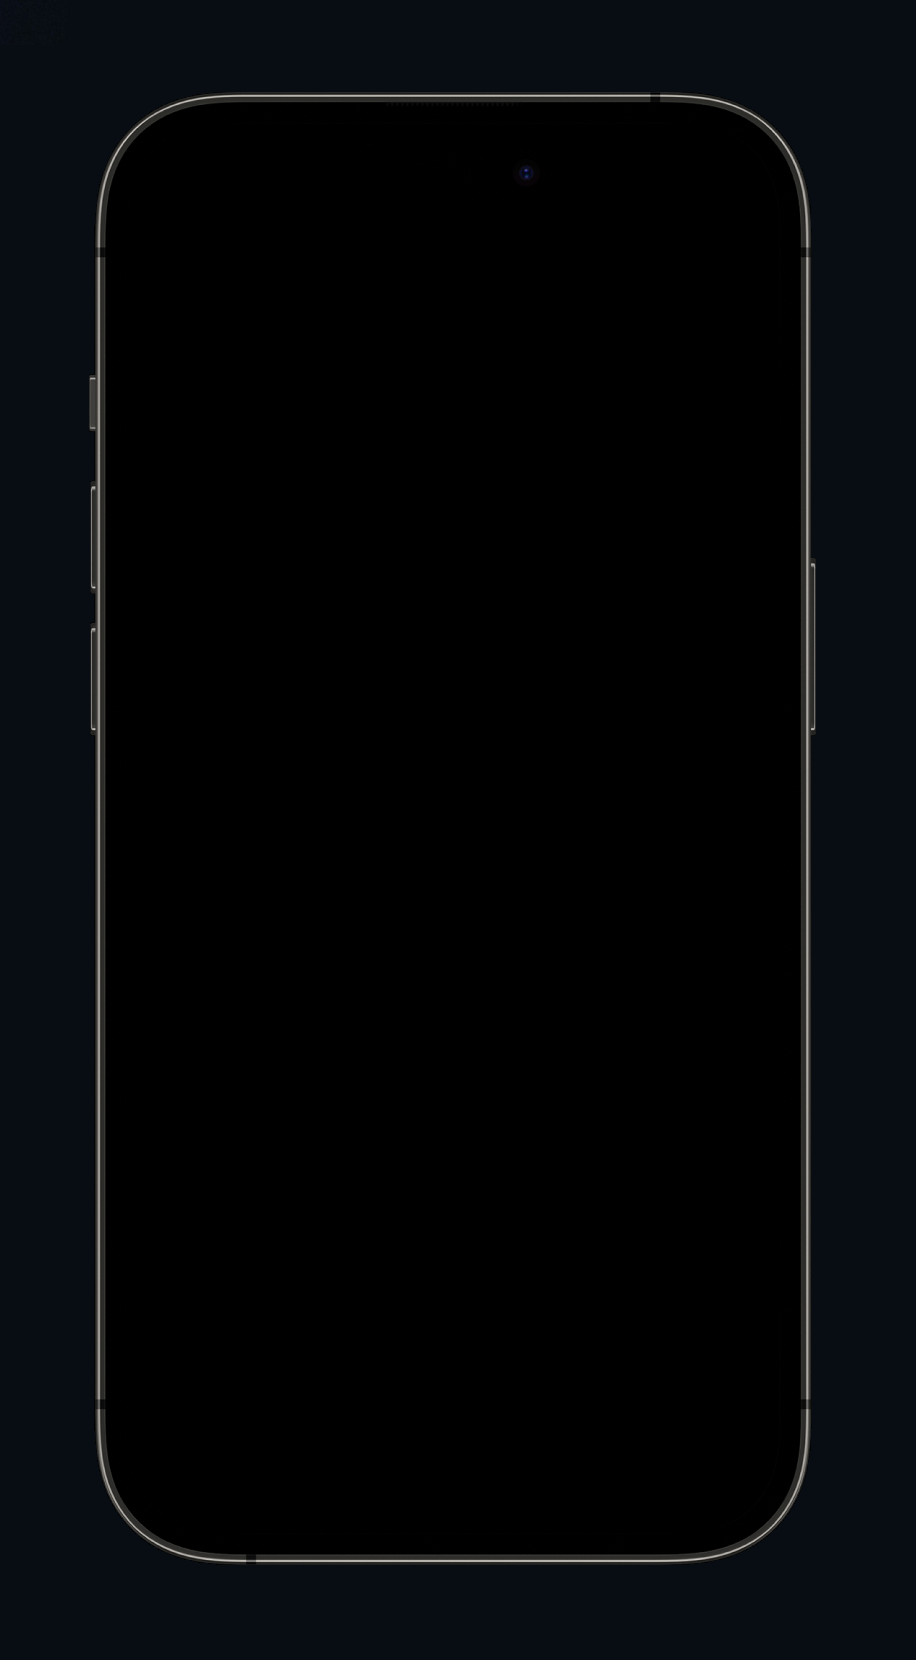
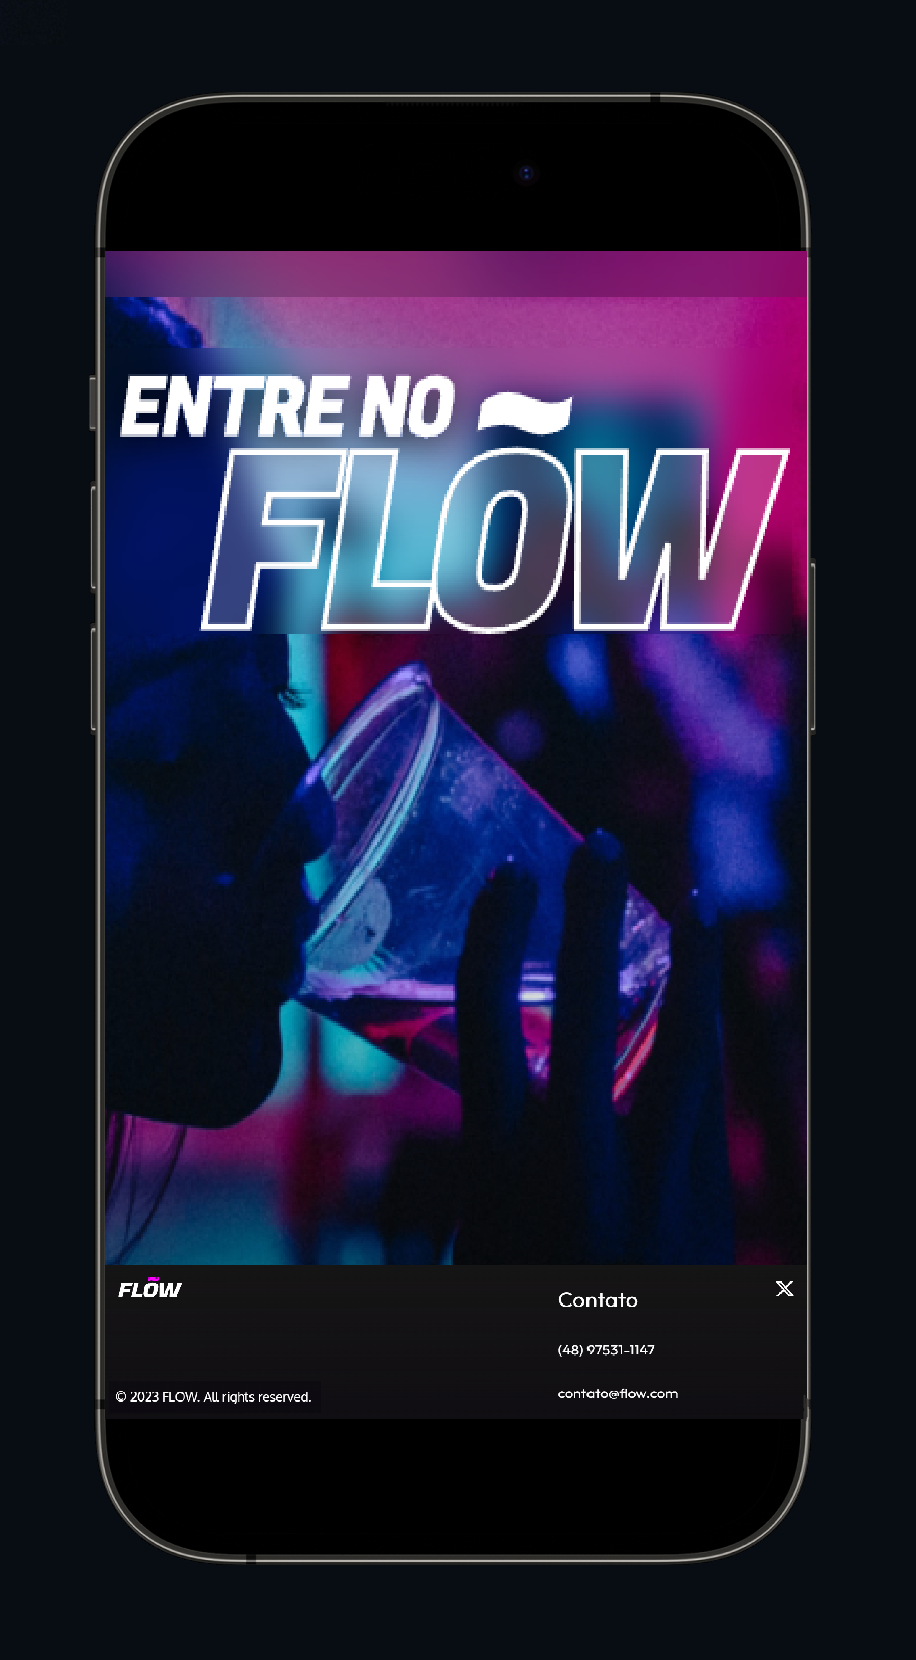
component product page and fix phone image

diff --git a/src/pages/Product/index.jsx b/src/pages/Product/index.jsx
@@ -1,14 +1,12 @@
 import React from "react";
-import homeCardReview1 from "../../assets/about/about-card-review-1.png";
-import homeCardReview2 from "../../assets/about/about-card-review-2.png";
-import homeCardReview3 from "../../assets/about/about-card-review-3.png";
-import homeCardReview4 from "../../assets/about/about-card-review-4.png";
 import flowLogo from "../../assets/flow-logo-big.svg";
 import homeBg from "../../assets/home/background.png";
 import Footer from "../../components/Footer";
 import Header from "../../components/Header";
 import Main from "../../components/Main";
 import "./style.css";
+import ProductText from "./ProductText";
+import flowPhone from "../../assets/product/iphonescreen.png";
 
 export const Product = () => {
   return (
@@ -28,32 +26,16 @@ export const Product = () => {
           </p>
 
           <div className="productInfoBox">
-            <img className="productPhoneImage" src="\src\assets\product\iphonescreen.png" alt="failed" />
-            
-            <div className="productText">
-              <h1>PROBLEMA</h1>
-              <p>
-              Lorem ipsum dolor sit amet. Ut fugiat aliquid nam consectetur
-              perferendis et facilis voluptas vel deserunt minima est dolore
-              recusandae et corporis earum hic atque recusandae! Ea consequuntur
-              voluptas non fugiat consectetur a impedit illo! Et sint
-              necessitatibus ex dolorem dolorem sed quis enim id enim quibusdam!
-              Est quia praesentium ad velit quia ut accusantium quos qui vero
-              dolores sit atque quia. Et fugit esse ad maxime corrupti non nihil
-              <h1>PROPOSTA</h1>
-              Lorem ipsum dolor sit amet. Ut fugiat aliquid nam consectetur
-              perferendis et facilis voluptas vel deserunt minima est dolore
-              recusandae et corporis earum hic atque recusandae! Ea consequuntur
-              voluptas non fugiat consectetur a impedit illo! Et sint
-              necessitatibus ex dolorem dolorem sed quis enim id enim quibusdam!
-              <h1>OBJETIVO</h1>
-              Lorem ipsum dolor sit amet. Ut fugiat aliquid nam consectetur
-              perferendis et facilis voluptas vel deserunt minima est dolore
-              recusandae et corporis earum hic atque recusandae! Ea consequuntur
-              voluptas non fugiat consectetur a impedit illo! Et sint
-              necessitatibus ex dolorem dolorem sed quis enim id enim quib
+            <img
+              className="productPhoneImage"
+              src={flowPhone}
+              alt="failed"
+            />
 
-              </p>
+            <div className="productText">
+              <ProductText title={"PROBLEMA"} content={"A falta de acesso a informações consolidadas e centralizadas dificulta a busca por opções de lazer. Isso afeta a capacidadede tomar decisões informadas e aproveitar ao máximo as atividades e oportunidades disponíveis na cidade. Isso não apenas limita as experiências de lazer, mas também contribuipara a sensação de desconexão e frustração, destacando a necessidade de soluções que simplifiquem e centralizem o acesso a informações sobre eventos na comunidade."}/>
+              <ProductText title={"PROPOSTA"} content={"Desenvolver um website que centraliza informações sobre shows, eventos e atrações, incorporando avaliações e média de preços, ofereceria uma solução eficaz para a dificuldade de encontraropções de lazer. Essa plataforma abrangente simplificaria a busca por eventos, permitindo aos usuários filtrar por preferências específicas. Além disso, funcionalidades de avaliações e média de preços promoveriam a transparência e o engajamento com a comunidade, proporcionando uma experiência mais rica e satisfatória para os usuários, ao mesmo tempo em que impulsiona o apoio a eventos locais e estimula a economia regional."}/>
+              <ProductText title={"OBJETIVO"} content={"Buscamos garantir uma experiência facilitada para os usuários acessarem informações sobre eventos, com o objetivo de tornar a busca por diversão mais prática e eficiente. Além de proporcionar praticidade imediata, nossa plataforma visa contribuir para a formação de uma comunidade engajada, conectada e enriquecida culturalmente. Queremos oferecer um meio intuitivo para os usuários explorarem diversas opções de lazer, fortalecendo assim os laços sociais e a vitalidade da comunidade local."}/>
             </div>
           </div>
         </div>

diff --git a/src/pages/Product/style.css b/src/pages/Product/style.css
@@ -1,40 +1,41 @@
 .productAboutUs {
-    text-align: center;
-    padding-top: 50px;
-    font-style: Poppins;
-    padding-left: 250px;
-    padding-right: 250px;
-  }
-  
-  .h1 {
-    font-size: 500px;
-    position: absolute;
-    z-index: -2;
-    width: 100%;
-    height: 500px;
-    flex-shrink: 0;
-  }
-  
-  .productPhoneImage {
-    width: 30%;
-    padding-right: 15px;
-    border-radius: 8px;
-  }
+  text-align: center;
+  padding-top: 50px;
+  font-style: Poppins;
+  padding-left: 250px;
+  padding-right: 250px;
+}
 
-  .productInfoBox {
-    background-color: rgb(0, 0, 0);
-    color: #fff;
-    padding: 20px;
-    border-radius: 10px;
-    text-align: center;
-    opacity: 85%;
-    display: flex;
-  }
-  
-  .productText {
-    text-align: center;
-    padding: 70px;
+.h1 {
+  font-size: 500px;
+  position: absolute;
+  z-index: -2;
+  width: 100%;
+  height: 500px;
+  flex-shrink: 0;
+}
 
-  }
+.productPhoneImage {
+  width: 30%;
+  padding-right: 15px;
+  border-radius: 8px;
+}
 
-  
+.productInfoBox {
+  background-color: rgb(0, 0, 0);
+  color: #fff;
+  padding: 20px;
+  border-radius: 10px;
+  opacity: 85%;
+  display: flex;
+}
+
+.productText {
+  text-align: center;
+  padding: 70px;
+}
+
+.productTopicText {
+  padding-bottom: 50px;
+  text-align: center;
+}

diff --git a/src/pages/Product/ProductText.jsx b/src/pages/Product/ProductText.jsx
@@ -1,0 +1,8 @@
+export default function ProductText({title, content}) {
+    return (
+        <div className="productTopicText">
+        <h1>{title}</h1>
+        <p>{content}</p>
+      </div>
+    )
+}
